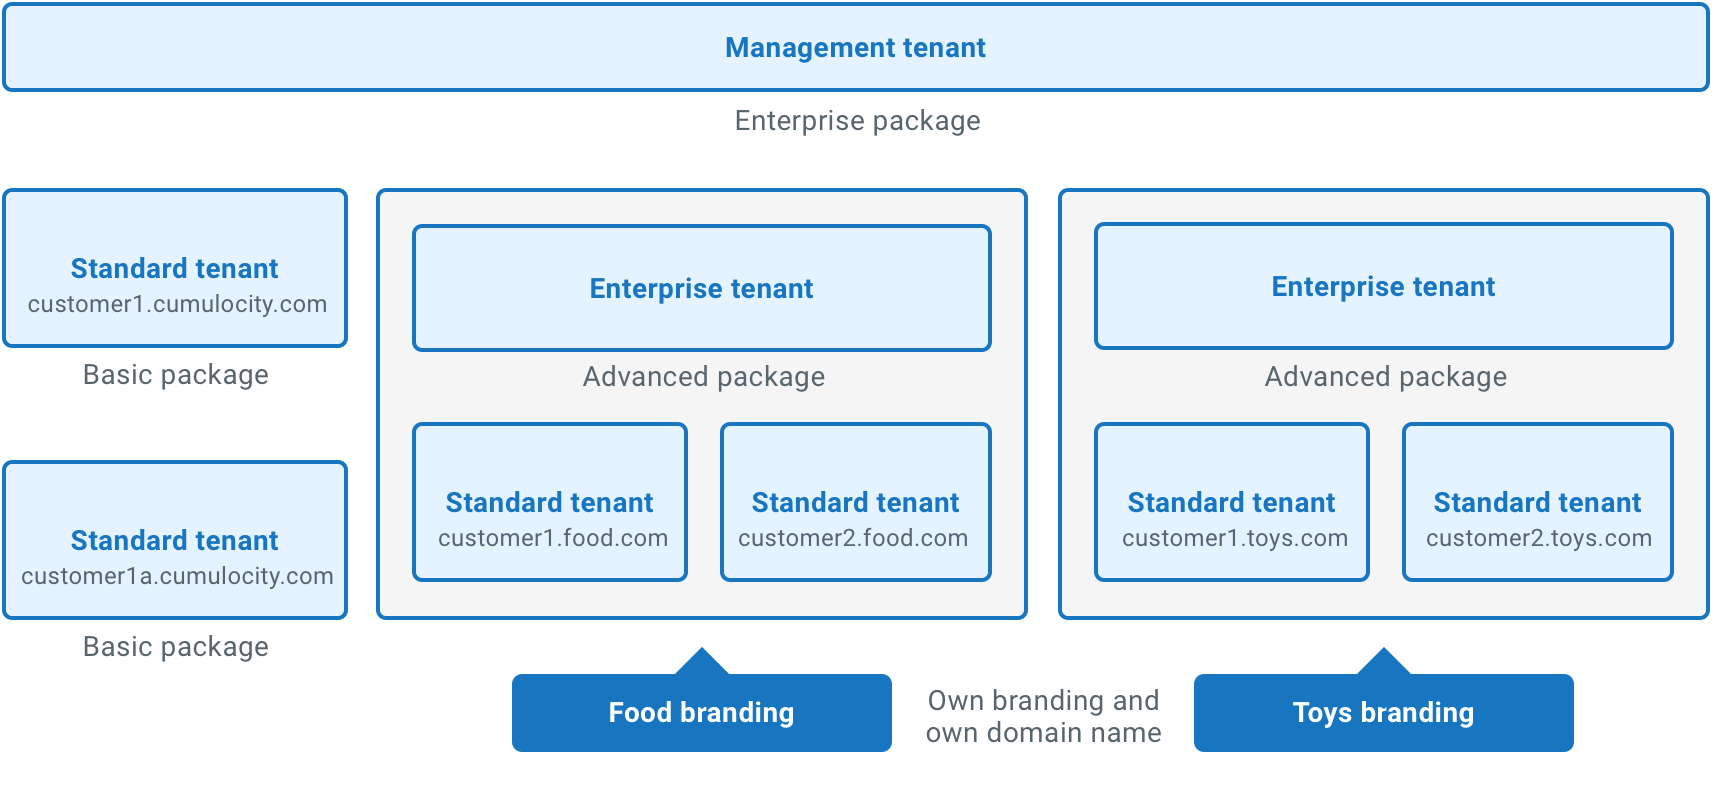
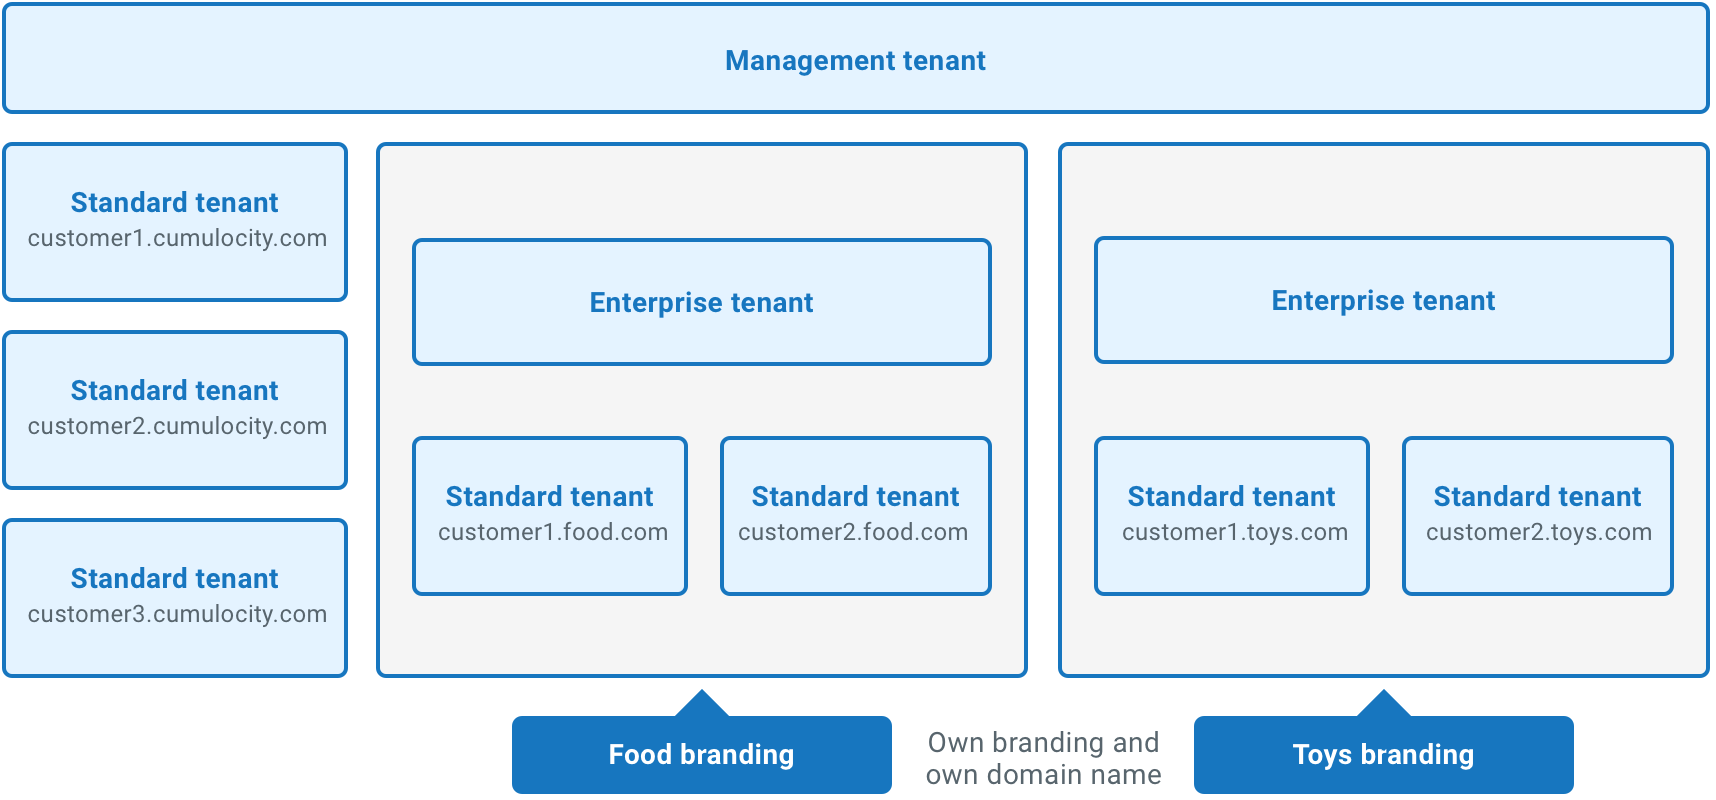
replaced image and added notes on packaging

diff --git a/content/about-doc/content-overview.md b/content/about-doc/content-overview.md
@@ -4,7 +4,12 @@ title: Content overview
 layout: bundle
 ---
 
-The Cumulocity IoT documentation on this website contains the following information:
+The Cumulocity IoT documentation on this website contains the following information.
+
+>**Important:** Depending on your tenant (free-trial or paid subscription), your package and subscribed optional components only a subset of the features and functionalities described in this documentation might be available to you. 
+>
+>Refer to the [Cumulocity IoT Pricing page](https://www.softwareag.cloud/site/pricing/cumulocity-iot.html#/) for details on our packages and on additional optional features. Refer to your contract on details on your particular subscriptions.
+
 
 <table>
 <col width = 150>

diff --git a/content/concepts/tenant-hierarchy-bundle/tenant-levels.md b/content/concepts/tenant-hierarchy-bundle/tenant-levels.md
@@ -12,6 +12,12 @@ The Cumulocity IoT tenant concept builds a 3-level hierarchy, including the foll
 
 ![3-level hierarchy](/images/concepts-guide/tenant-hierarchy.png)
 
+As described in more detail below, these three levels differ in scope of features and functionalities, particularly with regards to administration aspects.
+
+>**Info:** Refer to the [Cumulocity IoT Pricing page](https://www.softwareag.cloud/site/pricing/cumulocity-iot.html#/) for details on our related package offering. 
+>
+>Refer to your contract on details on your individual subscriptions.
+>
 
 ### <a name="standard-tenant"></a> Standard tenant
 
